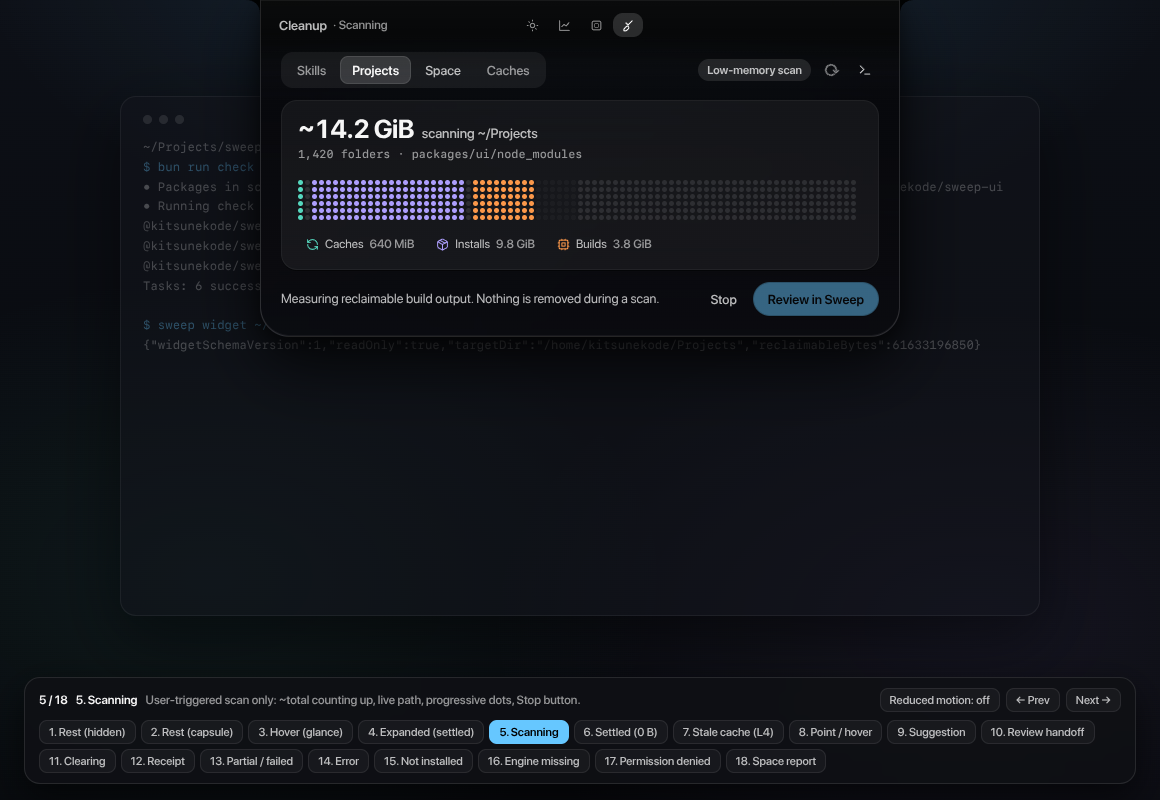
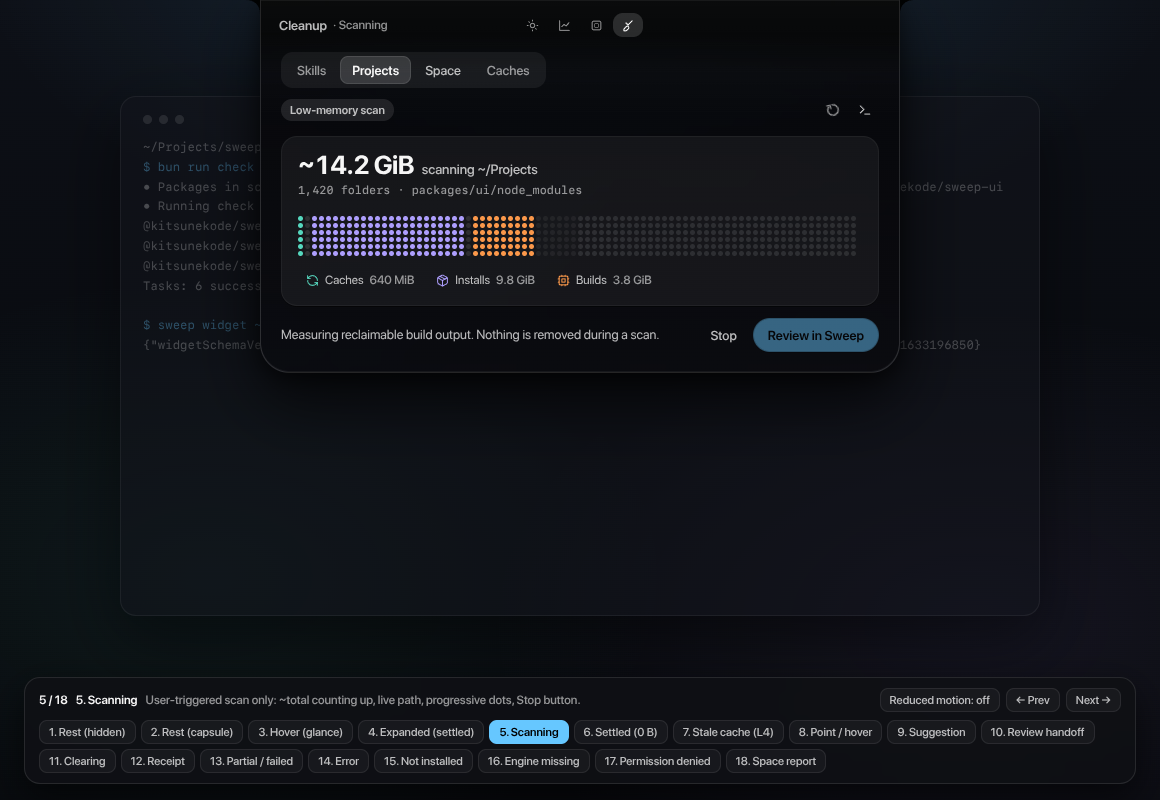
docs(plans): apply PR #147 re-check fixes for Kuwai island design

diff --git a/prototypes/kuwai-island/index.html b/prototypes/kuwai-island/index.html
@@ -357,17 +357,35 @@
       gap: 12px;
     }
 
-    /* Toolbar row: single CleanupPanel Segmented control + right chip & quiet panel actions */
-    .toolbar-row {
+    /* CleanupPanel viewSwitch sits on its own row; SweepPanel mounts its slim status/action row below it */
+    .header-stack {
+      display: flex;
+      flex-direction: column;
+      gap: 8px;
+    }
+    .view-switch-row {
+      display: flex;
+      align-items: center;
+    }
+    .sweep-subbar {
       display: flex;
       align-items: center;
       justify-content: space-between;
-      gap: 10px;
+      flex-wrap: wrap;
+      gap: 6px 10px;
+      min-height: 28px;
     }
-    .toolbar-right {
+    .sweep-subbar-left {
       display: flex;
       align-items: center;
       gap: 6px;
+      min-width: 0;
+    }
+    .sweep-subbar-right {
+      display: flex;
+      align-items: center;
+      gap: 4px;
+      margin-left: auto;
       flex-shrink: 0;
     }
 
@@ -657,7 +675,7 @@
 
     /* Empty state (Sweep not installed) */
     .empty-state {
-      padding: 18px 14px;
+      padding: 18px 8px;
       display: flex;
       flex-direction: column;
       align-items: center;
@@ -691,14 +709,14 @@
       justify-content: space-between;
       gap: 10px;
       width: 100%;
-      max-width: 560px;
-      padding: 8px 10px 8px 14px;
+      max-width: 552px;
+      padding: 8px 10px 8px 12px;
       border-radius: 10px;
       background: rgba(0, 0, 0, 0.45);
       border: 1px solid var(--edge-1);
       font-family: var(--font-mono);
-      font-size: 11px;
-      line-height: 1.45;
+      font-size: 10.5px;
+      line-height: 1.5;
       color: var(--text-primary);
       text-align: left;
     }
@@ -706,9 +724,12 @@
       font-family: inherit;
       user-select: all;
       white-space: normal;
-      overflow-wrap: break-word;
+      overflow-x: auto;
       flex: 1;
       min-width: 0;
+    }
+    .code-pill .cmd-tail {
+      white-space: nowrap;
     }
     .code-pill .btn {
       flex-shrink: 0;
@@ -956,7 +977,9 @@
 
   <script>
     (function () {
-      const INSTALL_CMD = "curl -fsSL https://raw.githubusercontent.com/KitsuneKode/sweep/main/install.sh | sh";
+      const INSTALL_CMD_PREFIX = "curl -fsSL";
+      const INSTALL_CMD_TAIL = "https://raw.githubusercontent.com/KitsuneKode/sweep/main/install.sh | sh";
+      const INSTALL_CMD = `${INSTALL_CMD_PREFIX} ${INSTALL_CMD_TAIL}`;
 
       /* Crisp 14-15px Lucide-style inline SVG icons matching C+ & Kuwai glyph set */
       const ICONS = {
@@ -967,6 +990,7 @@
         usage: '<svg width="13" height="13" viewBox="0 0 24 24" fill="none" stroke="currentColor" stroke-width="1.9" stroke-linecap="round" stroke-linejoin="round"><path d="M3 3v18h18"/><path d="M7 14l4-4 4 3 5-6"/></svg>',
         system: '<svg width="13" height="13" viewBox="0 0 24 24" fill="none" stroke="currentColor" stroke-width="1.9" stroke-linecap="round" stroke-linejoin="round"><rect x="4" y="4" width="16" height="16" rx="3"/><rect x="9" y="9" width="6" height="6" rx="1"/></svg>',
         cache: '<svg width="13" height="13" viewBox="0 0 24 24" fill="none" stroke="currentColor" stroke-width="1.9" stroke-linecap="round" stroke-linejoin="round"><path d="M21 12a9 9 0 0 0-9-9 9.75 9.75 0 0 0-6.74 2.74L3 8"/><path d="M3 3v5h5"/><path d="M3 12a9 9 0 0 0 9 9 9.75 9.75 0 0 0 6.74-2.74L21 16"/><path d="M16 16h5v5"/></svg>',
+        caches: '<svg width="13" height="13" viewBox="0 0 24 24" fill="none" stroke="currentColor" stroke-width="1.9" stroke-linecap="round" stroke-linejoin="round"><path d="M21 12a9 9 0 0 0-9-9 9.75 9.75 0 0 0-6.74 2.74L3 8"/><path d="M3 3v5h5"/><path d="M3 12a9 9 0 0 0 9 9 9.75 9.75 0 0 0 6.74-2.74L21 16"/><path d="M16 16h5v5"/></svg>',
         install: '<svg width="13" height="13" viewBox="0 0 24 24" fill="none" stroke="currentColor" stroke-width="1.9" stroke-linecap="round" stroke-linejoin="round"><path d="m7.5 4.27 9 5.15"/><path d="M21 8a2 2 0 0 0-1-1.73l-7-4a2 2 0 0 0-2 0l-7 4A2 2 0 0 0 3 8v8a2 2 0 0 0 1 1.73l7 4a2 2 0 0 0 2 0l7-4A2 2 0 0 0 21 16Z"/><path d="m3.3 7 8.7 5 8.7-5"/><path d="M12 22V12"/></svg>',
         build: '<svg width="13" height="13" viewBox="0 0 24 24" fill="none" stroke="currentColor" stroke-width="1.9" stroke-linecap="round" stroke-linejoin="round"><rect x="4" y="4" width="16" height="16" rx="2"/><rect x="9" y="9" width="6" height="6"/><path d="M15 2v2M9 2v2M15 20v2M9 20v2M2 9h2M2 15h2M20 9h2M20 15h2"/></svg>',
         custom: '<svg width="13" height="13" viewBox="0 0 24 24" fill="none" stroke="currentColor" stroke-width="1.9" stroke-linecap="round" stroke-linejoin="round"><path d="M2 12s3.5-7 10-7 10 7 10 7-3.5 7-10 7-10-7-10-7Z"/><circle cx="12" cy="12" r="3"/></svg>',
@@ -1020,7 +1044,7 @@
         { id: "rest-hidden", label: "1. Rest (hidden)", desc: "Default closed notch. Zero Sweep marks, zero polling, 0% CPU." },
         { id: "rest-capsule", label: "2. Rest (capsule)", desc: "Optional right-lane SysMarks capsule when idle/worktree bytes pass Settings.sweepMinGB." },
         { id: "hover-glance", label: "3. Hover (glance)", desc: "Island.preview('sweep') morphs NotchShape directly from top edge; strictly cache-only." },
-        { id: "expanded-settled", label: "4. Expanded (settled)", desc: "640 px Cleanup card: single Segmented bar, toolbar actions, C+ dot bar, single CTA." },
+        { id: "expanded-settled", label: "4. Expanded (settled)", desc: "640 px Cleanup card: viewSwitch row, Sweep slim sub-row, C+ dot bar, single CTA." },
         { id: "scanning", label: "5. Scanning", desc: "User-triggered scan only: ~total counting up, live path, progressive dots, Stop button." },
         { id: "settled-clean", label: "6. Settled (0 B)", desc: "Nothing reclaimable: empty dot track, calm confirmation, secondary Rescan." },
         { id: "stale-cache", label: "7. Stale cache (L4)", desc: "Instant first paint from cache with age chip; never auto-scans on battery." },
@@ -1038,7 +1062,7 @@
       ];
 
       let activeState = "expanded-settled";
-      let interactiveHot = null;
+      let interactiveHot = undefined; /* undefined = initial state default, null = explicitly unfocused, string = focused bucket */
       let copyState = "idle"; /* "idle" | "copied" | "failed" */
       let copyTimer = null;
 
@@ -1090,25 +1114,31 @@
           </div>`;
       }
 
-      /* Single CleanupPanel Segmented bar + right chip & quiet Rescan / Open terminal buttons */
+      /* CleanupPanel Segmented viewSwitch on its own row + Sweep's slim status/action row directly below */
       function renderToolbar(activeTab, chipHtml, busyRescan = false, showActions = true) {
         return `
-          <div class="toolbar-row">
-            <div class="segmented" role="tablist" aria-label="Cleanup sections">
-              <button type="button" class="seg-opt peer" disabled tabindex="-1">Skills</button>
-              <button type="button" class="seg-opt ${activeTab === "projects" ? "active" : ""}" role="tab" aria-selected="${activeTab === "projects"}" data-jump="expanded-settled">Projects</button>
-              <button type="button" class="seg-opt ${activeTab === "space" ? "active" : ""}" role="tab" aria-selected="${activeTab === "space"}" data-jump="space-report">Space</button>
-              <button type="button" class="seg-opt peer" disabled tabindex="-1">Caches</button>
+          <div class="header-stack">
+            <div class="view-switch-row">
+              <div class="segmented" role="tablist" aria-label="Cleanup sections">
+                <button type="button" class="seg-opt peer" disabled tabindex="-1">Skills</button>
+                <button type="button" class="seg-opt ${activeTab === "projects" ? "active" : ""}" role="tab" aria-selected="${activeTab === "projects"}" data-jump="expanded-settled">Projects</button>
+                <button type="button" class="seg-opt ${activeTab === "space" ? "active" : ""}" role="tab" aria-selected="${activeTab === "space"}" data-jump="space-report">Space</button>
+                <button type="button" class="seg-opt peer" disabled tabindex="-1">Caches</button>
+              </div>
             </div>
-            <div class="toolbar-right">
-              ${chipHtml || ""}
+            <div class="sweep-subbar">
+              <div class="sweep-subbar-left">
+                ${chipHtml || ""}
+              </div>
               ${showActions ? `
-                <button type="button" class="btn quiet icon-only" title="Rescan" aria-label="Rescan" data-jump="scanning">
-                  <span class="${busyRescan ? "spin" : ""}" style="display:grid;place-items:center;">${ICONS.refresh}</span>
-                </button>
-                <button type="button" class="btn quiet icon-only" title="Open Sweep in terminal" aria-label="Open Sweep in terminal" data-jump="review-handoff">
-                  ${ICONS.terminal}
-                </button>` : ""}
+                <div class="sweep-subbar-right">
+                  <button type="button" class="btn quiet icon-only" title="Rescan" aria-label="Rescan" data-jump="scanning">
+                    <span class="${busyRescan ? "spin" : ""}" style="display:grid;place-items:center;">${ICONS.refresh}</span>
+                  </button>
+                  <button type="button" class="btn quiet icon-only" title="Open Sweep in terminal" aria-label="Open Sweep in terminal" data-jump="review-handoff">
+                    ${ICONS.terminal}
+                  </button>
+                </div>` : ""}
             </div>
           </div>`;
       }
@@ -1227,7 +1257,7 @@
             </div>`;
         } else if (id === "expanded-settled" || id === "point-hover" || id === "stale-cache" || id === "review-handoff") {
           const defaultHot = id === "point-hover" ? "build" : null;
-          const hotId = interactiveHot !== null ? interactiveHot : defaultHot;
+          const hotId = interactiveHot !== undefined ? interactiveHot : defaultHot;
           const hotBucket = PROJECT_BUCKETS.find(b => b.id === hotId) || null;
           const isStale = id === "stale-cache";
           const isHandoff = id === "review-handoff";
@@ -1571,7 +1601,7 @@
                       <div class="empty-title">Sweep is not installed</div>
                       <div class="empty-body">Install Sweep to inspect project build artifacts and reclaim disk space from the island.</div>
                       <div class="code-pill">
-                        <code>${INSTALL_CMD}</code>
+                        <code>${INSTALL_CMD_PREFIX} <span class="cmd-tail">${INSTALL_CMD_TAIL}</span></code>
                         <button type="button" class="btn secondary icon-only" id="copy-cmd" title="Copy install command" aria-label="Copy install command">
                           ${copyState === "copied" ? `<span style="color:var(--green);display:grid;place-items:center;">${ICONS.check}</span>` : ICONS.copy}
                         </button>
@@ -1629,7 +1659,7 @@
               </div>
             </div>`;
         } else if (id === "space-report") {
-          const hotId = interactiveHot !== null ? interactiveHot : "photos";
+          const hotId = interactiveHot !== undefined ? interactiveHot : "photos";
           const hotCat = SPACE_CATEGORIES.find(c => c.id === hotId) || null;
           /* Space view ALWAYS keeps volume total as the single bold headline; focused category goes on the dim line */
           const subLineHtml = hotCat
@@ -1693,7 +1723,7 @@
       function bindStageEvents() {
         document.querySelectorAll("[data-jump]").forEach(el => {
           el.addEventListener("click", () => {
-            interactiveHot = null;
+            interactiveHot = undefined;
             copyState = "idle";
             setState(el.getAttribute("data-jump"));
           });
@@ -1732,6 +1762,10 @@
                 if (e.key === "Enter" || e.key === " ") {
                   e.preventDefault();
                   setBucketFocus(bucket, true);
+                } else if (e.key === "Escape") {
+                  e.preventDefault();
+                  interactiveHot = null;
+                  renderState(activeState, bucket);
                 }
               });
             }
@@ -1739,7 +1773,12 @@
           const card = document.querySelector(".kuwai-card");
           if (card) {
             card.addEventListener("mouseleave", () => {
-              if (interactiveHot !== null) {
+              const currentHot = activeState === "space-report"
+                ? (interactiveHot !== undefined ? interactiveHot : "photos")
+                : activeState === "point-hover"
+                  ? (interactiveHot !== undefined ? interactiveHot : "build")
+                  : (interactiveHot ?? null);
+              if (currentHot !== null) {
                 interactiveHot = null;
                 renderState(activeState);
               }
@@ -1762,7 +1801,7 @@
       function setState(id) {
         if (!STATES.some(s => s.id === id)) return;
         activeState = id;
-        interactiveHot = null;
+        interactiveHot = undefined;
         copyState = "idle";
         renderState(activeState);
       }

diff --git a/.plans/kuwai-island.md b/.plans/kuwai-island.md
@@ -121,9 +121,14 @@ files.
   `sweep` binary).
 - **Security and reliability:** Zero external QML loading. The `sweep` binary
   path is resolved from a fixed allowlist (`~/.local/bin/sweep`,
-  `~/.bun/bin/sweep`, `/usr/local/bin/sweep`, `/usr/bin/sweep`) and validated
-  with `own` / root-owned non-world-writable checks (`st_uid in (0, getuid())`,
-  `!(mode & 0o022)`, regular executable, no shell).
+  `~/.bun/bin/sweep`, `/home/linuxbrew/.linuxbrew/bin/sweep`,
+  `/usr/local/bin/sweep`, `/usr/bin/sweep`). Because package-manager shims such
+  as `~/.bun/bin/sweep` and Homebrew (`/home/linuxbrew/.linuxbrew/bin/sweep`,
+  `/usr/local/bin/sweep`) are symlinks, Kuwai resolves each candidate with
+  `realpath` before validating ownership and permissions (`st_uid in (0,
+  getuid())`, `!(mode & 0o022)`, regular executable, plus non-group/world-writable
+  parent directories along the resolved path) and executes the resolved absolute
+  path directly with no shell.
 - **Kuwai tooling fit:** Natively imports `qs.config` (`Theme`) and
   `qs.components.ui`, passes `bin/kuwai-tokens --check`,
   `bin/kuwai-comments --check`, `bin/kuwai-rehearse --gate`, and
@@ -540,18 +545,28 @@ filenames, stack traces, raw OS paths, or exit codes (passing Kuwai's
    `backStrip` renders only the left title/`headerMeta` (`Cleanup · Sweep`) or
    Back pill and the centered 4-icon section switcher (`Agents`, `Usage`,
    `System`, `Cleanup`). The quiet `Rescan` and `Open terminal` icon buttons
-   therefore live inside Sweep's own toolbar row in `panel-body`, right-aligned
-   beside the `Segmented` bar and status chip, not in `backStrip`.
-2. **One `Segmented` bar inside `CleanupPanel.qml` (never stacked tabs).**
-   `CleanupPanel.qml:132-139` already renders a top `Segmented` control
-   (`Skills | Idle projects | Caches | Leftovers`). Sweep does **not** render a
-   second nested `Projects | Space` segmented control beneath it:
+   therefore live inside `SweepPanel`, not in `backStrip`.
+2. **One `Segmented` bar inside `CleanupPanel.qml` above Sweep's own slim sub-row (never stacked tabs or crowded shared rows).**
+   `CleanupPanel.qml:132-139` renders a single top `Segmented` control
+   (`Skills | Idle projects | Caches | Leftovers`) and mounts `SweepPanel`
+   directly below it (`Loader { id: projects; y: viewSwitch.y + viewSwitch.height }`
+   at `CleanupPanel.qml:150-158`). Sweep does **not** render a second nested
+   `Projects | Space` segmented control, and it does **not** share
+   `viewSwitch`'s horizontal row (which already holds up to 5 tabs with
+   `Leftovers` and would collide at `120%` and `200%` text scale under
+   `bin/kuwai-rehearse --gate`):
    - **v1a:** `CleanupPanel`'s single top `Segmented` control is
      `Skills | Projects | Caches | Leftovers` (renaming `Idle projects` to
      `Projects`).
    - **v1b** (once `supportedViews` advertises `"space"`): `Space` is added as
      a peer option in that **same** single `Segmented` control:
      `Skills | Projects | Space | Caches | Leftovers`.
+   - **Sweep's slim status/action row:** Mounted at the top of `SweepPanel`
+     directly below `viewSwitch`, holding Sweep's state chip on the left and
+     the quiet `Rescan` and `Open terminal` icon buttons on the right. If that
+     slim sub-row itself overflows at `200%` text scale, the right-side action
+     buttons wrap onto a second line using the same `below` width check pattern
+     as `daysSwitch.below` (`CleanupPanel.qml:142`).
 3. **`Ui.Notice` single-action rule (`shell/components/ui/Notice.qml:15-42`,
    `docs/DESIGN.md:178`).** `Ui.Notice` supports at most one `action` button.
    States 14 (`error`) and 16 (`engine-missing`) put their primary recovery
@@ -642,7 +657,7 @@ All motion uses Kuwai's existing `Theme.qml` tokens (no raw numbers):
 | 1 | **Rest (hidden, default)** | No Sweep mark shown. Notch shows normal Kuwai rest row (`workspaces · clock · status`). | None. | 0% CPU, zero polling, zero timers. |
 | 2 | **Rest (optional capsule)** | Shown only when `Settings.sweepMark` is on, a cached scan exists with idle/worktree bytes `>= Settings.sweepMinGB` (labeled `GiB` in UI, default `10 GiB`), and bytes grew by `>= 5 GiB` since `sweep-viewed`. Hosted in right-side `SysMarks` / `sysPill` (`28 px` tall, `rgba(0,0,0,0.94)`, `1 px rgba(255,255,255,0.07)`). | Glyph `\u{f00e2}` + `10.3 GiB` (tabular). | Buds once via `sv` spring (`surfaceIn`). Completely still once out. Swipe up dismisses until threshold changes; click or pull down opens expanded card. |
 | 3 | **Hover (glance preview)** | Hovering the capsule raises pill fill (`rgba(255,255,255,0.09)`). After `Settings.hoverDelay` (`220 ms`), `Island.preview("sweep")` folds `IslandSplit` (`split.atRest = false`) and morphs `NotchShape` (`480 px`, `ear: 14`, `WlrKeyboardFocus.None`) directly out of the top edge. **Strictly cache-only**: never triggers a scan even on AC power. | Hero: `57.4 GiB` `reclaimable in ~/Projects`<br>Sub: `31.0 GiB free on volume · +4.2 GiB guarded`<br>Chip: `Preview`<br>Footer: `10.3 GiB is in 26 idle projects and 5 finished worktrees.` + `Open` button. | `80 ms` hover wash (`Theme.hoverMs`). Morphs out of the top edge on `surfaceIn`; folds `300 ms` (`Theme.hoverLeaveMs`) after pointer leaves unless clicked to pin. |
-| 4 | **Expanded storage card (settled)** | `Theme.panelM` (`640 px`) inside top-attached `NotchShape` (`30 px` bottom radius, `14 px` ears, `LiquidRim`). `backStrip`: `Cleanup · Sweep` left + 4 section icons centered (no right-side controls). Panel toolbar: single `CleanupPanel` `Segmented` bar (`Skills \| Projects \| Space \| Caches`, with `Space` hidden until v1b) + `112 projects` chip + quiet `Rescan` & `Open terminal` icon buttons. Body: hero `57.4 GiB` (`26 px` bold sans, tabular) + `reclaimable in ~/Projects`, dim line `31.0 GiB free on volume · +4.2 GiB guarded`, 6-row `SweepDotBar` by rebuild cost, 4-item legend with colored Nerd Font icons, footer insight + single primary `Review in Sweep` button + quiet trust caption. | Hero: `57.4 GiB` `reclaimable in ~/Projects`<br>Sub: `31.0 GiB free on volume · +4.2 GiB guarded`<br>Legend: `Caches 2.1 GiB`, `Installs 38.6 GiB`, `Builds 16.3 GiB`, `Opt-in 410 MiB`<br>Footer: `10.3 GiB is in 26 idle projects and 5 finished worktrees.`<br>Button: `Review in Sweep`<br>Caption: `Nothing is deleted here. Review opens Sweep with an empty queue.` | Opens on `surfaceIn` (or `surfaceKeyIn` via shortcut). Dot bar and hero are completely still once settled. |
+| 4 | **Expanded storage card (settled)** | `Theme.panelM` (`640 px`) inside top-attached `NotchShape` (`30 px` bottom radius, `14 px` ears, `LiquidRim`). `backStrip`: `Cleanup · Sweep` left + 4 section icons centered (no right-side controls). Top row: single `CleanupPanel` `Segmented` bar (`Skills \| Projects \| Space \| Caches`, with `Space` hidden until v1b). Directly below `viewSwitch` inside `SweepPanel`: slim status/action row with `112 projects` chip on the left and quiet `Rescan` & `Open terminal` icon buttons on the right (wrapping via the `daysSwitch.below` width rule if needed at `200%` text scale). Body: hero `57.4 GiB` (`26 px` bold sans, tabular) + `reclaimable in ~/Projects`, dim line `31.0 GiB free on volume · +4.2 GiB guarded`, 6-row `SweepDotBar` by rebuild cost, 4-item legend with colored Nerd Font icons, footer insight + single primary `Review in Sweep` button + quiet trust caption. | Hero: `57.4 GiB` `reclaimable in ~/Projects`<br>Sub: `31.0 GiB free on volume · +4.2 GiB guarded`<br>Legend: `Caches 2.1 GiB`, `Installs 38.6 GiB`, `Builds 16.3 GiB`, `Opt-in 410 MiB`<br>Footer: `10.3 GiB is in 26 idle projects and 5 finished worktrees.`<br>Button: `Review in Sweep`<br>Caption: `Nothing is deleted here. Review opens Sweep with an empty queue.` | Opens on `surfaceIn` (or `surfaceKeyIn` via shortcut). Dot bar and hero are completely still once settled. |
 | 5 | **Scanning (user-triggered)** | Entered only when the user opens the panel on AC with no cache, or explicitly clicks `Rescan` / `Scan now` (on AC or battery). Hero shows `~14.2 GiB` (leading `~` marks incomplete sizing). Subtitle shows live folder count and middle-elided path. Dot bar fills left-to-right from real `widget_progress` buckets with leading shimmer. `Rescan` icon spins (`busy: true`); `Stop` quiet button cancels cleanly. | Hero: `~14.2 GiB` `scanning ~/Projects`<br>Sub: `1,420 folders · packages/ui/node_modules`<br>Footer: `Measuring reclaimable build output. Nothing is removed during a scan.`<br>Buttons: `Stop` (quiet), `Review in Sweep` (disabled). | Live updates coalesced at `<= 12 Hz` (`80 ms`); shimmer `Theme.shimmerMs` (`1300 ms`) paused under `reduceMotion`. Cancels child process group via `SIGTERM` on `Stop` or panel close. |
 | 6 | **Settled (nothing to free)** | Reclaimable is `0 B`. Dot bar shows empty unlit track (`Theme.wash(2)`). No suggestion card, no primary button. | Hero: `0 B` `reclaimable in ~/Projects`<br>Sub: `34.5 GiB free on volume · +4.2 GiB guarded`<br>Footer: `Nothing to clear here right now.`<br>Button: `Rescan` (secondary). | Still. Zero timers. |
 | 7 | **Stale cached result (L4) / battery no-cache** | Immediate first paint from `$XDG_CACHE_HOME/sweep/widget-v1.json` when older than `60 min` (or on battery). Renders full dot bar and legend at full clarity plus an amber-tinted `Chip` (`Cached · 3 h ago · on battery`) and a manual `Refresh` button. If on battery with **no cache yet**, renders a calm empty card with `"On battery · click Scan to measure"` and a manual `Scan now` secondary button. | Cached chip: `Cached · 3 h ago` (or `Cached · 3 h ago · on battery`)<br>Footer: `10.3 GiB was idle at last scan. Refresh to measure again, or review live in Sweep.`<br>Buttons: `Review in Sweep` (primary, runs live scan in terminal), `Refresh` (secondary).<br>No-cache on battery: `No saved scan yet` / `On battery. Click Scan now to measure ~/Projects.` + `Scan now` (secondary). | Instant paint (no skeleton flash). Never auto-scans on battery, even with no cache. |
@@ -653,7 +668,7 @@ All motion uses Kuwai's existing `Theme.qml` tokens (no raw numbers):
 | 12 | **Receipt (clean outcome)** | Shown when `$XDG_STATE_HOME/sweep/last-receipt.json` records `failedCount === 0 && !stopped` (and is neither dismissed nor older than 24 h). When closed, the capsule flashes a green halo once (`celebrate()`, never loops) showing `Freed 3.5 GiB`. When open, renders as a top-attached `NotchShape` panel (`ear: 14`) with green check + freed total, updated free disk space, and remaining `53.9 GiB` dot bar. Trash mode states `0 B freed on volume until purged`. | Delete mode hero: `Freed 3.5 GiB` (in `Theme.green`)<br>Sub: `5 items removed · 34.5 GiB free now · 53.9 GiB still reclaimable`<br>Trash mode sub: `5 items moved to Trash · 0 B freed on volume until purged`<br>Footer: `Next: 26 idle projects hold 6.8 GiB.` (or `Nothing else needs clearing right now.`)<br>Buttons: `Done` (quiet, persists `dismissedReceiptId`), `Review idle projects` (primary). | Rare delight budget: one-time green halo fade (`Theme.enterMs` -> `Theme.breathOutMs`), hero count settles once (`<= 320 ms`, disabled under `reduceMotion`). |
 | 13 | **Partial / failed outcome** | Shown when `last-receipt.json` has `failedCount > 0` or `stopped: true`. Uses `Ui.Notice` in amber (`Theme.orange`) with one action (`Inspect in Sweep`). Never calls partial work clean. Dot bar below reflects the updated remaining `54.3 GiB` (`57.4 - 3.1 GiB`). | Notice title: `Removed 3.1 GiB, 2 items failed` (or `Stopped early · 3 removed, 2 not attempted`)<br>Detail: `2 items stayed queued because files were busy or lacked permission. 34.1 GiB free now.`<br>Notice action (single): `Inspect in Sweep`. | Static amber notice. No shake or looping pulse. |
 | 14 | **Error (scan failed / timeout)** | Shown when `sweep widget` exits non-zero or times out. Uses `Ui.Notice` in red (`Theme.red`) with **one** action (`Try again`); secondary `Open terminal` quiet link sits below the notice. Never prints helper filenames, stack traces, or exit codes (passes Kuwai `REHEARSAL.md` `insides` gate). If a last-good cache exists, keeps showing it dimmed below the notice. | Notice title: `Could not finish scanning ~/Projects`<br>Detail: `The scan timed out before sizing finished. Showing the last saved scan from 3 h ago.`<br>Notice action (single): `Try again`<br>Footer link: `Open terminal`. | Static red notice. No placeholder skeletons left alongside error (passes `waits-forever` gate). |
-| 15 | **Sweep not installed** | `sweep` binary not found in allowlisted paths. Clean centered empty state (`Ui.EmptyState`) recommending the self-contained checksum-verified install script (`README.md:56`, `install.sh:3`). | Title: `Sweep is not installed`<br>Body: `Install Sweep to inspect project build output and reclaim disk space from the island.`<br>Code pill: `curl -fsSL https://raw.githubusercontent.com/KitsuneKode/sweep/main/install.sh \| sh` + copy icon button (ticks green **only** after clipboard write resolves; shows `"Copy failed"` if unavailable/rejected, keeping text selectable). | Still. Copy icon crossfades to check in `Theme.microMs` (`140 ms`) on resolved write. |
+| 15 | **Sweep not installed** | `sweep` binary not found in allowlisted paths. Clean centered empty state (`Ui.EmptyState`) recommending the self-contained checksum-verified install script (`README.md:56`, `install.sh:3`). Command pill wraps cleanly after `curl -fsSL` onto 2 lines (keeping `...install.sh \| sh` together so `sh` is never orphaned alone, with horizontal scroll fallback in narrow/scaled layouts). | Title: `Sweep is not installed`<br>Body: `Install Sweep to inspect project build output and reclaim disk space from the island.`<br>Code pill: `curl -fsSL https://raw.githubusercontent.com/KitsuneKode/sweep/main/install.sh \| sh` + copy icon button (ticks green **only** after clipboard write resolves; shows `"Copy failed"` if unavailable/rejected, keeping text selectable). | Still. Copy icon crossfades to check in `Theme.microMs` (`140 ms`) on resolved write. |
 | 16 | **Engine missing** | `sweep` CLI returns `error.code === "engine_missing"`. Uses `Ui.Notice` in amber (`Theme.orange`) with **one** action (`Scan with fallback`); secondary `Run doctor` quiet button sits in the footer row below the notice (launches `sweep doctor` in the user's terminal). | Notice title: `Native scan engine unavailable`<br>Detail: `Scans can still run with the fallback scanner, or run sweep doctor in your terminal to repair the native engine.`<br>Notice action (single): `Scan with fallback` (passes `--engine js`)<br>Footer: `Fallback scanner uses identical guardrails and binary sizing.` + `Run doctor` (quiet). | Static amber notice. |
 | 17 | **Permission denied** | Two distinct forms: (a) **root unreadable** (`error.code === "permission_denied"`) shows red `Ui.Notice` (`Open Settings`) with no meta-documentation copy; (b) **partial unreadable subdirs** (`skippedDirs > 0`) stays in State 4 settled card and appends one amber caption `Skipped 14 unreadable folders · sizes are a lower bound`. | Root unreadable title: `Cannot read ~/Projects`<br>Detail: `Your account does not have read permission on this folder. Pick another scan root in Settings.`<br>Notice action (single): `Open Settings` (opens `Settings -> Island`). | Static notice. |
 | 18 | **Read-only Space report view (v1b)** | Gated on [space-report.md](space-report.md) landing; selected via `Space` in `CleanupPanel`'s single `Segmented` bar (`Skills \| Projects \| Space \| Caches`). Strictly read-only (`readOnly: true`). **Volume total stays fixed as the single bold hero headline across all categories** (`342.4 GiB of 476.9 GiB used`), never replaced by a personal folder like `Photos`. Focusing any category (pointer hover or keyboard `Enter`/`Space`/`<-`/`->`) dims other dots to `0.24` and shows the focused category on the dim/subtitle line. 6-row dot bar spans all 11 C+ categories (`Developer`, `Apps`, `Photos`, `System data`, `Caches`, `Videos`, `Documents`, `Downloads`, `Trash`, `Music`, `Other`; `system_data` shows `"Unknown"` when `bytesKnown === false` on CoW volumes). 3-column legend with colored icons + binary sizes. | Fixed hero: `342.4 GiB` `of 476.9 GiB used`<br>Default dim line: `134.5 GiB free on volume · point at any category`<br>Focused `Photos` (info-only) dim line: `Photos · 58.6 GiB · Personal files are info-only. Sweep never queues or removes them.` + **no action button** in footer.<br>Focused `Developer` dim line: `Developer · 57.4 GiB · Project build artifacts and toolchains.` + `Review in Sweep` (primary).<br>Focused `Caches` dim line: `Caches · 32.4 GiB · Verified regenerable tool caches.` + `Review caches` (primary).<br>Focused `Trash` dim line: `Trash · 12.6 GiB · Items already moved to Trash on this volume.` + `Review Trash` (primary).<br>No category focused footer button: `Open Space in Sweep` (secondary). | `80 ms` hover dim (`Theme.hoverMs`) on pointer; `0 ms` on keyboard. Volume hero stays anchored with zero shift while only the dim line updates. Switching `Projects <-> Space` crossfades content in `Theme.quickMs` (`140 ms`, `Theme.easeOut`) at fixed `640 px` panel width. |
@@ -742,15 +757,19 @@ and does not watch stdin EOF during the walk). To prevent orphaned
    pipe (or Linux `pidfd_open(ppid)` watcher thread in `sweep-engine`) that
    flips the cancellation `AtomicBool` and terminates the engine cleanly on
    parent EOF/exit.
-2. **Process-group isolation and signal forwarding in `sweep`:** `sweep` spawns
-   `sweep-engine` in its own child process group (`setpgid`), catches
-   `SIGTERM`/`SIGINT` on clean cancellation (`Stop` or panel close), forwards
-   `SIGTERM` to the entire engine process group (`-pgid`), and escalates to
+2. **Shared process group and direct-signal forwarding in `sweep`:** `sweep`
+   keeps `sweep-engine` in `sweep`'s own process group (it does **not** call
+   `setpgid` to detach the engine into a separate group). When `sweep` receives
+   `SIGTERM`/`SIGINT` directly (for example from interactive cancellation), it
+   forwards `SIGTERM` to the `sweep-engine` child PID and escalates to
    `SIGKILL` after `2 s`.
 3. **Host-side process-group / scope teardown in Kuwai:** Kuwai launches the
    scan command in a new session/process group (or via `systemd-run --user
-   --scope --quiet --collect`) so timeout or panel-close cancellation can
-   signal the entire process group, guaranteeing zero orphans on `kuwai-check`.
+   --scope --quiet --collect`). Because `sweep-engine` remains in `sweep`'s
+   process group (and inside the transient scope cgroup when using
+   `systemd-run --user --scope`), a host-side timeout or panel-close signal to
+   `-pgid` (or cgroup teardown) reaches both `sweep` and `sweep-engine`
+   directly, guaranteeing zero orphans on `kuwai-check`.
 
 Additional bounds:
 - `--resource-profile low-memory` bounds logical traversal memory to
@@ -906,8 +925,8 @@ plan splits cleanly into **v1a (shippable immediately)** and **v1b (gated on
 | PR | Repo | Scope | Key deliverables & acceptance gate |
 | --- | --- | --- | --- |
 | **PR 1** | `sweep` | Protocol & core rebuild-cost model | Move `rebuildFor()` into `packages/core/src/rebuild.ts` and normalize `RebuildCost` from `"unknown"` (`packages/ui/src/project-details.ts:12`, already labeled `"custom"` at line 216) to `"custom"` across core and protocol. Add `WidgetSnapshot`, `WidgetEvent` (NDJSON), `WidgetCacheEnvelope`, `ActiveApply`, `WidgetReceipt`, `WidgetError` types and JSON Schemas in `packages/protocol/schemas/`. Ajv contract tests covering every state and guardrail rejection (`loadPlan`/`sweep apply` reject `widgetSchemaVersion`). Passes `bun run check`. |
-| **PR 2** | `sweep` | `sweep widget` CLI, `--focus`, engine teardown, cache & receipts | Implement `sweep widget [path] --view projects --json\|--json-stream --cache-only --refresh --resource-profile low-memory\|balanced` (`supportedViews: ["projects"]`, unknown `--view` exits with code 2 via Commander `.choices()`). Add `--focus worktrees\|idle` to `sweep ui` (unknown `--focus` exits with code 2). Add Linux `PR_SET_PDEATHSIG(SIGKILL)` + `getppid()` race check and parent-death control-pipe/pidfd watcher in `crates/sweep-engine-cli` plus process-group signal forwarding in `packages/core`. Write atomic `0600` `$XDG_CACHE_HOME/sweep/widget-v1.json`, `$XDG_RUNTIME_DIR/sweep/active-apply.json` (fallback `$XDG_CACHE_HOME/sweep/`), and `$XDG_STATE_HOME/sweep/last-receipt.json` (with `mode: "delete"\|"trash"` and `id`). Contract tests for missing engine, permission denied, stale cache, clean/trash/partial receipts, and orphan teardown. Passes `bun run check`, `bun run rust:check`, and `bun run verify`. |
-| **PR 3** | `rice` | Thin Kuwai panel (Option A) & retire legacy duplication (~250-350 LOC added, ~900 LOC deleted) | Replace `SweepPanel.qml` with a thin (~150 LOC) rendering-only panel + `SweepDotBar.qml` + passive `Sweep.qml` watcher (zero polling timers; cache-only hover; no auto-scan on battery even with no cache; dead-PID + `updatedAt < 30 s` check on `active-apply.json`; receipt dismissal via `dismissedReceiptId`; fixed absolute-path argv to validated `sweep` binary; single `Ui.Notice` actions). Rename `CleanupPanel` `Idle projects` tab to `Projects` (no nested `Segmented` bar). Keep `Settings.sweepMinGB` persisted key (UI label `GiB`), `Island.open("sweep")`, `IpcHandler { target: "sweep" }`, `sweep-viewed`, and `SysMarks` capsule. Show State 15 (`install.sh`) when `sweep` is absent. Delete `bin/kuwai-sweep` and `shell/services/sweepModel.js`. Add rehearsal scenes in `tests/ui/scenes.json`. Gates: `pytest`, `bun test`, `bin/kuwai-tokens --check`, `bin/kuwai-comments --check`, `bin/kuwai-rehearse --gate` (100%, 120%, 200%), `bin/kuwai-check`. |
+| **PR 2** | `sweep` | `sweep widget` CLI, `--focus`, engine teardown, cache & receipts | Implement `sweep widget [path] --view projects --json\|--json-stream --cache-only --refresh --resource-profile low-memory\|balanced` (`supportedViews: ["projects"]`, unknown `--view` exits with code 2 via Commander `.choices()`). Add `--focus worktrees\|idle` to `sweep ui` (unknown `--focus` exits with code 2). Add Linux `PR_SET_PDEATHSIG(SIGKILL)` + `getppid()` race check and parent-death control-pipe/pidfd watcher in `crates/sweep-engine-cli`, keeping `sweep-engine` in `sweep`'s process group (no separate `setpgid`) and forwarding `SIGTERM`/`SIGKILL` to the engine child on direct cancellation in `packages/core`. Write atomic `0600` `$XDG_CACHE_HOME/sweep/widget-v1.json`, `$XDG_RUNTIME_DIR/sweep/active-apply.json` (fallback `$XDG_CACHE_HOME/sweep/`), and `$XDG_STATE_HOME/sweep/last-receipt.json` (with `mode: "delete"\|"trash"` and `id`). Contract tests for missing engine, permission denied, stale cache, clean/trash/partial receipts, and orphan teardown. Passes `bun run check`, `bun run rust:check`, and `bun run verify`. |
+| **PR 3** | `rice` | Thin Kuwai panel (Option A) & retire legacy duplication (~250-350 LOC added, ~900 LOC deleted) | Replace `SweepPanel.qml` with a thin (~150 LOC) rendering-only panel + `SweepDotBar.qml` + passive `Sweep.qml` watcher (zero polling timers; cache-only hover; no auto-scan on battery even with no cache; dead-PID + `updatedAt < 30 s` check on `active-apply.json`; receipt dismissal via `dismissedReceiptId`; fixed absolute-path argv with `realpath` validation of symlinked `sweep` binaries including `~/.bun/bin/sweep` and `/home/linuxbrew/.linuxbrew/bin/sweep`; single `Ui.Notice` actions). Rename `CleanupPanel` `Idle projects` tab to `Projects` (no nested `Segmented` bar) and mount Sweep's state chip + `Rescan`/`Open terminal` buttons on their own slim sub-row below `viewSwitch` (with `daysSwitch.below`-style wrap at `120%`/`200%` text scale). Keep `Settings.sweepMinGB` persisted key (UI label `GiB`), `Island.open("sweep")`, `IpcHandler { target: "sweep" }`, `sweep-viewed`, and `SysMarks` capsule. Show State 15 (`install.sh`) when `sweep` is absent. Delete `bin/kuwai-sweep` and `shell/services/sweepModel.js`. Add rehearsal scenes in `tests/ui/scenes.json`. Gates: `pytest`, `bun test`, `bin/kuwai-tokens --check`, `bin/kuwai-comments --check`, `bin/kuwai-rehearse --gate` (100%, 120%, 200%), `bin/kuwai-check`. |
 
 *(If the owner chooses **Option B** instead of Option A for PR 3, replace PR 3
 with two PRs: PR 3a in `sweep` for `integrations/quickshell/Sweep/` + embedded
@@ -1015,3 +1034,8 @@ comments) and where each was resolved:
 | **SHOULD-FIX-7** | `host.ui.Button` QML ABI mechanics do not work declaratively; re-evaluate host size for v1 | Resolved | Section (a): documented why `host.ui` fails declaratively in QML, specified Option A (recommended, ~250-350 LOC added / ~900 deleted) vs Option B (`import Kuwai.Plugin 1.0`, ~800-1,200 LOC). |
 | **SHOULD-FIX-8** | Kitty graphics delete commands (`d=I`, per-ID teardown), OpenTUI version claims, capability checks, and `auto`-theme background baking | Resolved | `.plans/kitty-graphics.md`: switched eviction to `a=d,d=I,i=<id>` and teardown to per-owned-ID `a=d,d=I,i=<id>` (no `d=A`); verified `NativeImagePool`, `kittyImageTransport`, `capabilities.multiplexer`, and `capabilities.remote` are already exported in pinned `@opentui/core@0.6.8` (with env fallbacks); added `auto`-theme `theme.surface` baking rule in Rank 1. |
 | **NIT-1..7** | Hardcoded `"Kitty"` copy; state count typo (`17` vs `18`); `RebuildCost` `"unknown"` vs `"custom"`; per-view locks & `$XDG_RUNTIME_DIR` fallback; State 17 meta-copy; mock math (State 11 `25%` / `55.6 GiB`, State 13 `54.3 GiB`), keyboard legend focus, `Theme.qml`/`RaisedButton.qml` tokens, `LinkedBar` vs `SweepDotBar`; clickable `[space-report.md](space-report.md)` link | Resolved | All seven nits applied across `.plans/kuwai-island.md`, `prototypes/kuwai-island/index.html`, and regenerated screenshots. |
+| **RECHECK-1** | Space category `caches` missed `ICONS.cache` (rendered folder fallback) and `mouseleave` snapped back to `Photos`, making unfocused Space footer (`Open Space in Sweep`) unreachable | Resolved | `prototypes/kuwai-island/index.html` & `shots/18-space-report.png`: added `ICONS.caches` mapping to the refresh glyph; distinguished initial default focus (`undefined`) from explicit unfocus (`null`) so `mouseleave` (and `Escape`) returns to the unfocused Space state (volume headline + `Open Space in Sweep` footer). |
+| **RECHECK-2** | `CleanupPanel.qml` mounts `SweepPanel` below `viewSwitch`, and sharing `viewSwitch`'s horizontal row collides with 5 tabs or at `120%`/`200%` text scale | Resolved | Section (a), (b) State 4, (e) PR 3, `prototypes/kuwai-island/index.html`, and regenerated shots: `viewSwitch` keeps its own full-width top row; Sweep's state chip and `Rescan`/`Open terminal` icon buttons live on their own slim sub-row inside `SweepPanel` directly below `viewSwitch`, wrapping via the `daysSwitch.below` width rule (`CleanupPanel.qml:142`) at `200%` scale. |
+| **RECHECK-3** | Separate `setpgid` on `sweep-engine` contradicted host-side `-pgid` process-group cancellation | Resolved | Section (c) & Section (e) PR 2: removed separate `setpgid` on `sweep-engine` so it stays in `sweep`'s process group (and transient `systemd-run --user --scope` cgroup), ensuring Kuwai's `-pgid` signal reaches both `sweep` and `sweep-engine` directly alongside `PR_SET_PDEATHSIG` and direct-signal forwarding. |
+| **RECHECK-4** | Option A allowlist omitted `/home/linuxbrew/.linuxbrew/bin/sweep` and `realpath` validation for symlinked installs (`~/.bun/bin/sweep`, Homebrew) | Resolved | Section (a) Option A & Section (e) PR 3: added `/home/linuxbrew/.linuxbrew/bin/sweep` to the fixed allowlist and documented `realpath` resolution plus ownership/mode validation of the resolved executable and parent directories. |
+| **RECHECK-5** | State 15 install command pill wrapped onto 3 lines with `sh` orphaned alone on line 3 | Resolved | Section (b) State 15, `prototypes/kuwai-island/index.html`, and `shots/15-not-installed.png`: wrapped cleanly after `curl -fsSL` keeping `...install.sh \| sh` together on 2 crisp lines (with horizontal scroll fallback if narrower) so `sh` is never orphaned alone. |
